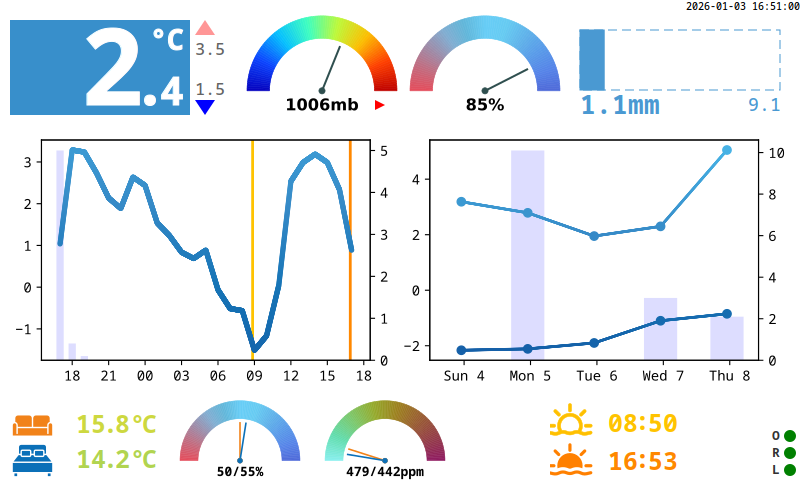
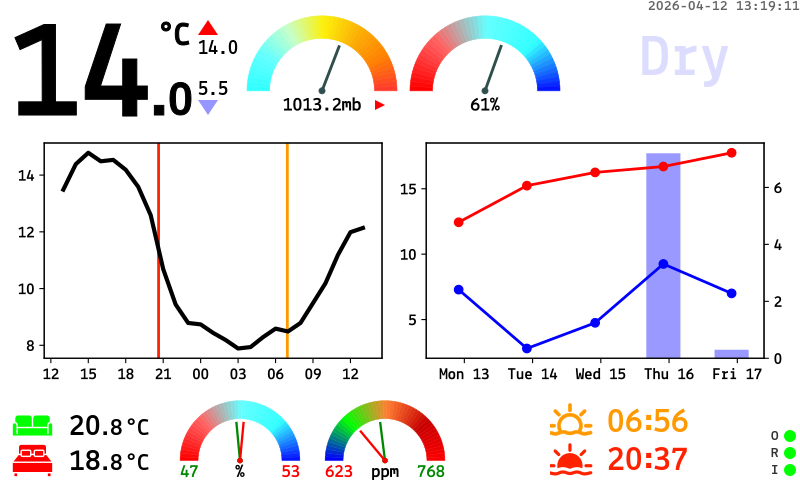
Indoor display tweaks

diff --git a/display.py b/display.py
@@ -181,14 +181,31 @@ def gauge_chart(data, unit, scale):
         angle_rad = np.deg2rad(angle_deg)
         needle_len = inner_r * 0.9
         nx, ny = needle_len * np.cos(angle_rad), needle_len * np.sin(angle_rad)
-        ax.plot([0, nx], [0, ny], lw=3.5, color=needle[1], zorder=5)
+        ax.plot([0, nx], [0, ny], lw=5, color=needle[1], zorder=5)
         ax.scatter([0], [0], s=120, color=needle[1], zorder=6)
 
-    label = '/'.join([str(n[0]) for n in data]) + unit
-    
-    # Labels and text
-    ax.text(0, -0.20, label, ha='center', va='center',
-            fontsize=34, fontweight='bold', color='black')
+    if len(data) == 1:
+        label = '/'.join([str(n[0]) for n in data]) + unit
+        ax.text(0, -0.20, label, ha='center', va='center',
+                fontsize=34, fontweight='bold', color='black')
+    else:
+        # Unit
+        ax.text(0, -0.20, unit, ha='center', va='center',
+                fontsize=40, fontweight='bold', color='black')
+
+        if data[0][0] < data[1][0]:
+            label1_src = 0
+            label2_src = 1
+        else:
+            label1_src = 1
+            label2_src = 0
+
+        ax.text(-1, -0.20, data[label1_src][0], ha='left', va='center',
+                fontsize=40, fontweight='bold', color=data[label1_src][1])
+        ax.text(1, -0.20, data[label2_src][0], ha='right', va='center',
+                fontsize=40, fontweight='bold', color=data[label2_src][1])
+        
+
 
     ax.set_xlim(-1.15, 1.15)
     ax.set_ylim(-0.35, 1.15)
@@ -504,8 +521,8 @@ indoor_temp(468, config['display']['main_module_icon'], main_module)
 indoor_humidity = indoor_module['Humidity']
 main_humidity = main_module['Humidity']
 
-INDOOR_COLOR = '#F18219'
-MAIN_COLOR = '#0B70B8'
+INDOOR_COLOR = '#008800'
+MAIN_COLOR = '#FF0000'
 
 humidity_data = [
     (indoor_humidity, INDOOR_COLOR),
